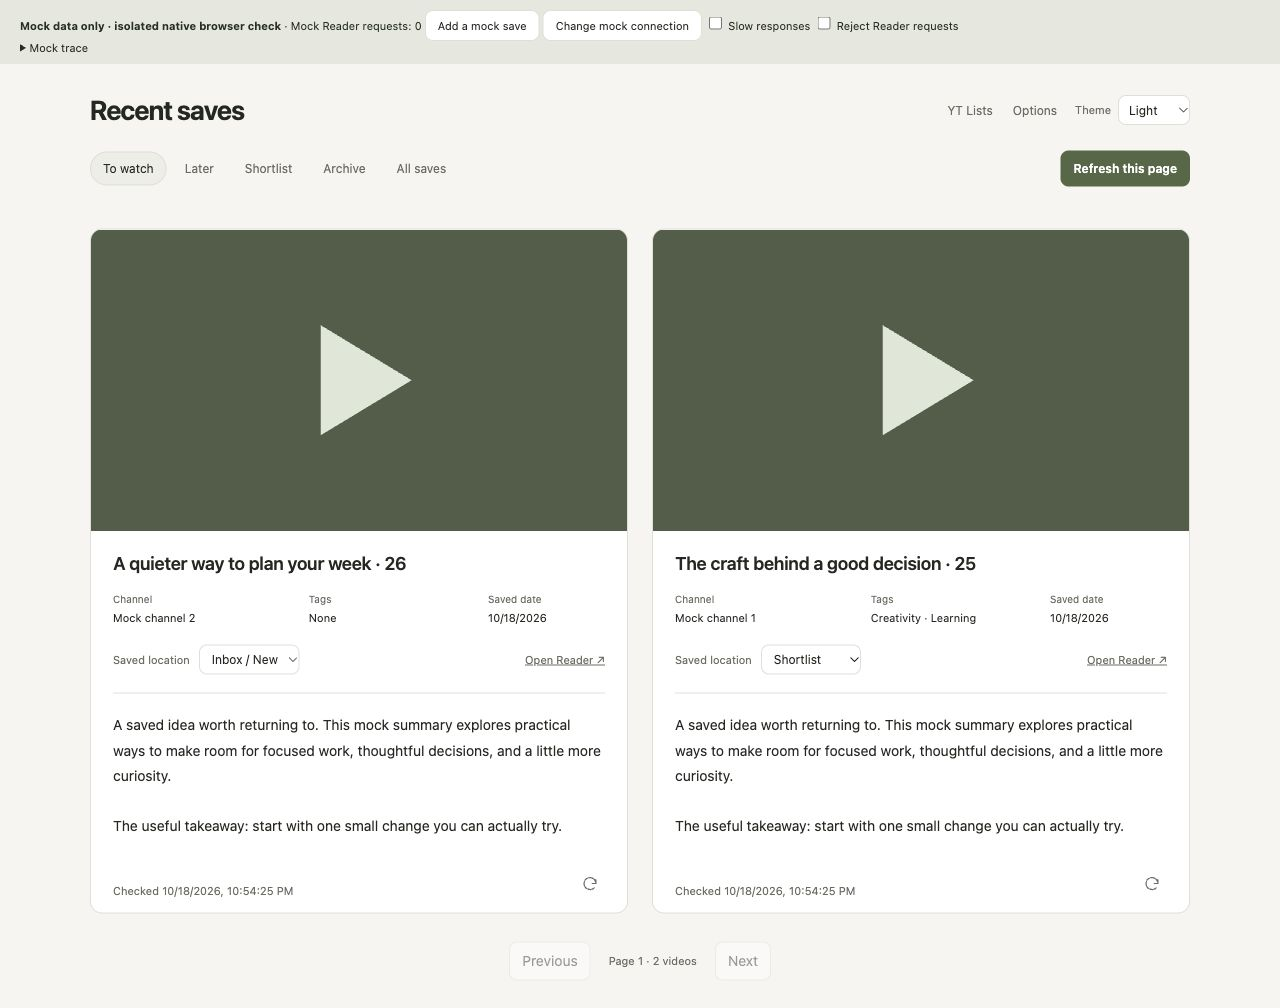
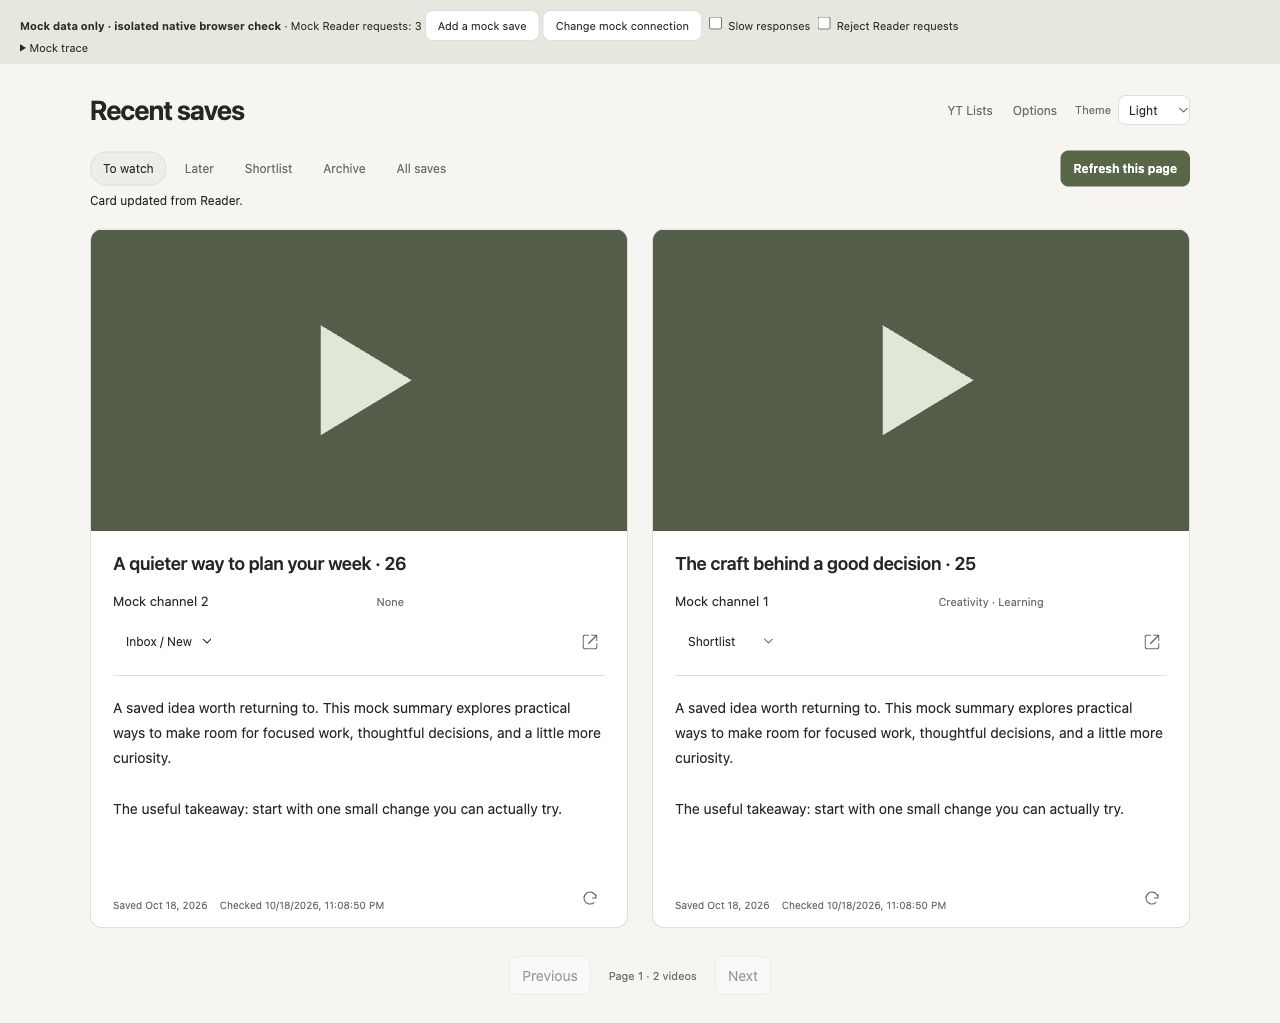
Polish Recent saves metadata, controls and footer

diff --git a/watch.js b/watch.js
@@ -37,6 +37,10 @@
   })[result.code] || (result.code === 'rate_limited' ? `Reader rate limit reached. Try after ${new Date(result.retryAt || Date.now() + 60000).toLocaleTimeString()}.` : 'Reader could not complete this request. Try Refresh.');
   const announce = (text, error = false) => { status.textContent = text; status.dataset.error = String(error); };
   const node = (tag, text, parent, className) => { const n = document.createElement(tag); if (text) n.textContent = text; if (className) n.className = className; parent?.append(n); return n; };
+  const icon = (parent, commands) => {
+    const svg = document.createElementNS('http://www.w3.org/2000/svg', 'svg'); svg.setAttribute('viewBox', '0 0 24 24'); svg.setAttribute('aria-hidden', 'true');
+    const path = document.createElementNS('http://www.w3.org/2000/svg', 'path'); path.setAttribute('d', commands); svg.append(path); parent.append(svg);
+  };
   const controls = () => {
     $('refresh').disabled = refreshing || pending.size > 0 || Boolean(deletion);
     $('refresh').textContent = refreshing ? 'Refreshing…' : 'Refresh this page';
@@ -54,20 +58,23 @@
     const copy = node('div', '', card, 'video-copy'), heading = node('h2', '', copy), link = node('a', '', heading);
     link.href = item.videoUrl; link.target = '_blank'; link.rel = 'noopener noreferrer';
     const metadata = node('dl', '', copy, 'metadata');
-    const field = label => { const group = node('div', '', metadata); node('dt', label, group); return node('dd', '', group); };
-    const channel = field('Channel'), tags = field('Tags'), date = field('Saved date');
-    const locationRow = node('div', '', copy, 'location-row'), locationLabel = node('label', 'Saved location', locationRow);
+    const field = label => { const group = node('div', '', metadata); node('dt', label, group, 'sr-only'); return node('dd', '', group); };
+    const channel = field('Channel'), tags = field('Tags'); channel.className = 'channel-name';
+    const locationRow = node('div', '', copy, 'location-row'), locationLabel = node('label', '', locationRow);
+    node('span', 'Saved location', locationLabel, 'sr-only');
     const move = node('select', '', locationLabel);
     const placeholder = node('option', 'Not checked', move); placeholder.value = ''; placeholder.disabled = true;
     for (const [value, label] of Object.entries(C.locations)) { const option = node('option', label, move); option.value = value; }
     const removeGroup = node('optgroup', '', move); removeGroup.label = 'Remove document';
     const trash = node('option', 'Trash…', removeGroup, 'trash-option'); trash.value = 'trash';
-    const readerLink = node('a', 'Open Reader ↗', locationRow); readerLink.target = '_blank'; readerLink.rel = 'noopener noreferrer';
+    const readerLink = node('a', '', locationRow, 'reader-link'); readerLink.target = '_blank'; readerLink.rel = 'noopener noreferrer'; readerLink.title = 'Open in Reader';
+    icon(readerLink, 'M14 3h7v7M10 14 21 3M10 3H5a2 2 0 0 0-2 2v14a2 2 0 0 0 2 2h14a2 2 0 0 0 2-2v-5');
     const summary = node('p', '', copy, 'summary-text');
-    const footer = node('div', '', copy, 'card-footer'), note = node('p', '', footer, 'row-status'); note.setAttribute('role', 'status');
+    const footer = node('div', '', copy, 'card-footer'), footerDetails = node('div', '', footer, 'footer-details');
+    const note = node('p', '', footerDetails, 'row-status'); note.setAttribute('role', 'status');
+    const footerMeta = node('div', '', footerDetails, 'footer-meta'), date = node('time', '', footerMeta), checked = node('span', '', footerMeta);
     const refresh = node('button', '', footer, 'card-refresh'); refresh.type = 'button';
-    const svg = document.createElementNS('http://www.w3.org/2000/svg', 'svg'); svg.setAttribute('viewBox', '0 0 24 24'); svg.setAttribute('aria-hidden', 'true');
-    const path = document.createElementNS('http://www.w3.org/2000/svg', 'path'); path.setAttribute('d', 'M20 7v5h-5M20 12a8 8 0 1 0-2.3 5.7'); svg.append(path); refresh.append(svg);
+    icon(refresh, 'M20 7v5h-5M20 12a8 8 0 1 0-2.3 5.7');
     move.addEventListener('change', () => {
       const destination = move.value, current = items.find(row => row.videoUrl === item.videoUrl);
       move.value = current && Object.hasOwn(C.locations, current.location) ? current.location : '';
@@ -75,7 +82,7 @@
       else if (destination) void mutate(item.videoUrl, destination);
     });
     refresh.addEventListener('click', () => void refreshCard(item.videoUrl));
-    return { card, link, channel, tags, date, placeholder, summary, move, readerLink, refresh, note };
+    return { card, link, channel, tags, date, checked, placeholder, summary, move, readerLink, refresh, note };
   };
   const render = () => {
     const order = items.map(item => item.videoUrl);
@@ -88,7 +95,10 @@
       const tags = Array.isArray(item.tags) ? W.tags(item.tags) : null;
       row.tags.textContent = tags ? tags.length ? tags.slice(0, 3).join(' · ') + (tags.length > 3 ? ` +${tags.length - 3}` : '') : 'None' : 'Not fetched';
       row.tags.title = tags?.join(' · ') || '';
-      row.date.textContent = new Date(item.savedAt).toLocaleDateString();
+      const savedDate = new Date(item.savedAt), hasSavedDate = Number.isFinite(savedDate.getTime());
+      row.date.textContent = hasSavedDate ? `Saved ${savedDate.toLocaleDateString(undefined, { month: 'short', day: 'numeric', year: 'numeric' })}` : 'Saved date unavailable';
+      row.date.dateTime = hasSavedDate ? savedDate.toISOString() : ''; row.date.setAttribute('aria-label', hasSavedDate ? `Saved date: ${savedDate.toLocaleString()}` : 'Saved date unavailable');
+      row.checked.textContent = item.checkedAt ? `Checked ${new Date(item.checkedAt).toLocaleString()}` : 'Not checked';
       row.placeholder.textContent = item.status === 'missing' ? 'Not found in Reader' : item.checkedAt ? C.locationLabel(item.location) : 'Not checked';
       row.placeholder.hidden = Object.hasOwn(C.locations, item.location) && item.status === 'saved';
       row.move.value = Object.hasOwn(C.locations, item.location) && item.status === 'saved' ? item.location : '';
@@ -101,7 +111,8 @@
       row.refresh.setAttribute('aria-label', `Refresh ${item.title || 'video'} from Reader`); row.refresh.title = 'Refresh this card from Reader';
       row.card.setAttribute('aria-busy', String(pending.has(item.videoUrl) || refreshing));
       row.readerLink.hidden = !item.readerId; if (item.readerId) row.readerLink.href = C.readerUrl(item.readerId);
-      row.note.textContent = pending.has(item.videoUrl) ? 'Working…' : errors.get(item.videoUrl) || (!item.readerId ? 'Reader ID not retained; open the video page to link it.' : item.checkedAt ? `Checked ${new Date(item.checkedAt).toLocaleString()}` : 'Saved locally · not yet checked with Reader');
+      row.readerLink.setAttribute('aria-label', `Open ${item.title || 'video'} in Reader`);
+      row.note.textContent = pending.has(item.videoUrl) ? 'Working…' : errors.get(item.videoUrl) || (!item.readerId ? 'Reader ID not retained; open the video page to link it.' : '');
       row.note.dataset.error = String(errors.has(item.videoUrl)); cards.push(row.card);
     }
     if (Array.from(grid.children).map(n => n.dataset.url).join('|') !== order.join('|')) grid.replaceChildren(...cards);

diff --git a/watch.css b/watch.css
@@ -2,6 +2,7 @@
 :root[data-theme=dark]{color-scheme:dark;--bg:#171916;--surface:#22251f;--text:#eeefe8;--muted:#adb2a3;--line:#41463b;--chip:#31362c;--accent:#bed5a6;--accent-text:#1b2913;--error:#ffb4ab;--focus:#e8bd67}
 *{box-sizing:border-box}
 [hidden]{display:none!important}
+.sr-only{position:absolute;width:1px;height:1px;padding:0;margin:-1px;overflow:hidden;clip:rect(0,0,0,0);white-space:nowrap;border:0}
 body{margin:0;background:var(--bg);color:var(--text);font:14px/1.5 -apple-system,BlinkMacSystemFont,"Segoe UI",sans-serif}
 button,a,select{font:inherit}
 button,select{color:var(--text);background:var(--surface);border:1px solid var(--line);border-radius:8px;padding:8px 12px}
@@ -33,22 +34,26 @@ h1{font-size:27px;letter-spacing:-.035em;line-height:1.2;margin:0;font-weight:65
 .video h2{font-size:18px;line-height:1.4;font-weight:600;letter-spacing:-.015em;margin:0 0 15px;overflow-wrap:anywhere}
 .video h2 a{text-decoration:none}
 .video h2 a:hover{text-decoration:underline}
-.metadata{display:grid;grid-template-columns:minmax(0,1.1fr) minmax(0,1fr) minmax(0,.7fr);gap:12px;font-size:11px;margin:0 0 18px;line-height:1.55}
+.metadata{display:grid;grid-template-columns:minmax(0,1.1fr) minmax(0,1fr);gap:12px;font-size:11px;margin:0 0 14px;line-height:1.55;color:var(--muted);align-items:baseline}
 .metadata div{min-width:0}
-.metadata dt{font-size:10px;color:var(--muted);margin-bottom:3px}
 .metadata dd{margin:0;overflow-wrap:anywhere}
+.metadata .channel-name{font-size:13px;color:var(--text)}
 .location-row{display:flex;align-items:center;justify-content:space-between;gap:12px;padding-bottom:18px;border-bottom:1px solid var(--line)}
 .location-row label{display:flex;gap:9px;align-items:center;font-size:11px;color:var(--muted);min-width:0}
-.location-row select{font-size:12px;padding:6px 8px;max-width:180px;min-width:100px}
+.location-row select{font-size:12px;padding:6px 8px;max-width:200px;min-width:100px;background:transparent;border-color:transparent}
+.location-row select:hover:not(:disabled){background:var(--chip);border-color:var(--line)}
+.location-row select:focus-visible{background:var(--chip)}
 .trash-option{color:var(--error)}
-.location-row a{font-size:11px;color:var(--muted);white-space:nowrap}
 .summary-text{font-size:14px;line-height:1.8;white-space:pre-wrap;overflow-wrap:anywhere;margin:19px 0 12px;min-height:76px}
 .summary-text[data-empty=true]{color:var(--muted);font-size:13px}
 .card-footer{display:flex;align-items:flex-end;justify-content:space-between;gap:12px;min-width:0}
+.footer-details{min-width:0;flex:1}
+.footer-meta{display:flex;flex-wrap:wrap;align-content:end;column-gap:12px;height:32px;overflow:auto;font-size:10px;line-height:16px;color:var(--muted)}
+.footer-meta>*{overflow-wrap:anywhere}
 .row-status{font-size:11px;line-height:16px;color:var(--muted);margin:0;height:48px;overflow:auto;min-width:0;align-content:end}
-.card-refresh{flex-shrink:0;display:grid;place-items:center;width:32px;height:32px;padding:7px;color:var(--muted);background:transparent;border-color:transparent}
-.card-refresh:hover:not(:disabled){background:var(--chip)}
-.card-refresh svg{display:block;width:18px;height:18px;fill:none;stroke:currentColor;stroke-width:1.6;stroke-linecap:round;stroke-linejoin:round}
+.card-refresh,.reader-link{flex-shrink:0;display:grid;place-items:center;width:32px;height:32px;padding:7px;color:var(--muted);background:transparent;border:1px solid transparent;border-radius:8px}
+.card-refresh:hover:not(:disabled),.reader-link:hover{background:var(--chip)}
+.card-refresh svg,.reader-link svg{display:block;width:18px;height:18px;fill:none;stroke:currentColor;stroke-width:1.6;stroke-linecap:round;stroke-linejoin:round}
 .pagination{display:flex;align-items:center;justify-content:center;gap:18px;margin-top:28px}
 .pagination span{font-size:11px;color:var(--muted)}
 .empty{min-height:260px;padding:56px 24px;text-align:center;border:1px dashed var(--line);border-radius:12px;color:var(--muted)}
@@ -71,4 +76,4 @@ dialog h2{font-size:20px;margin:0 0 16px}
  .toolbar{gap:10px}.filters{gap:1px}.filters button{padding:6px 9px}.notice-area{height:48px}
  .video-copy{padding:18px 18px 12px}.video h2{font-size:17px}.location-row{gap:8px}.location-row label{gap:7px}
 }
-@media(max-width:360px){.location-row{align-items:flex-start;flex-direction:column}.metadata{gap:8px}.header-actions{gap:12px}}
+@media(max-width:360px){.metadata{gap:8px}.header-actions{gap:12px}}

diff --git a/docs/watch-list-native-checks.md b/docs/watch-list-native-checks.md
@@ -2,13 +2,13 @@
 
 Checks ran on 18 October 2026 in Codex’s isolated in-app browser. The actual page, IndexedDB store, background routing and Reader transport ran against synthetic documents and a fake in-memory HTTP adapter. No extension was installed, real Reader credentials used, or real notes/library mutated. The fixture’s CSP blocks outbound connections and substitutes local thumbnail art.
 
-The refined page has a compact **Recent saves** title, two substantial cards per desktop row, large 16:9 thumbnails, title and Channel/Tags/Saved date metadata, a current-location dropdown containing a separate **Trash…** action, full inline summaries, and a bottom-right per-card refresh icon. It has no intro, default “Newest saves…” copy, redundant Trash button, summary disclosure, text clamp, or internal summary scroll area.
+The refined page has a compact **Recent saves** title, two substantial cards per desktop row, large 16:9 thumbnails, title, channel name and tags with visually hidden accessible field labels, a flat current-location dropdown containing a separate **Trash…** action, full inline summaries, and a bottom-right per-card refresh icon. Open in Reader is icon-only with a tooltip; Saved date and Checked share the bottom-left footer. It has no intro, default “Newest saves…” copy, redundant Trash button, summary disclosure, text clamp, or internal summary scroll area.
 
 | Check | Observed result |
 | --- | --- |
 | Initial view and Next/Previous | At most 12 cards per page; zero Reader requests for cached browsing |
 | Per-card Refresh | Exactly one `list/?id=mock-25` request supplied summary, tags and location; other cards were not fetched |
-| Pending refresh and mock 401 | Actual first card height stayed **685.21875px** before, during loading and after the error; error remained visible in the reserved feedback area |
+| Pending refresh and mock 401 | Actual first card height stayed **699.8203125px** before, during loading and after the error; error remained visible in the reserved feedback area |
 | Dropdown move Later → Shortlist | Exact-ID preflight, location-only PATCH and readback; dropdown showed verified Shortlist |
 | Dropdown Trash cancellation | Exact title/URL/ID confirmation, Cancel initially focused, no DELETE; dropdown retained the verified location |
 | Confirmed dropdown Trash | Exact-ID preflight, one mock DELETE with HTTP 204, absent-ID readback; card removed and success remained visible |
@@ -17,6 +17,9 @@ The refined page has a compact **Recent saves** title, two substantial cards per
 | Connection changed during slow card refresh | The late reply did not replace the connection-change message with success |
 | Connection changed during slow Trash preparation | Confirmation stayed closed after the late reply |
 | Theme and layout | Light/dark modes; desktop 1280px had two 538px columns and 16:9 image geometry; 390px and 280px had one column and no horizontal overflow |
+| Final labels and footer | Channel/Tags/location labels remained in the accessibility tree but were visually clipped; channel text measured 13px; Reader icon had no visible text and retained its exact target, accessible name and tooltip; Saved/Checked fit the reserved 32px footer at 390px and 280px |
+| Flat selector keyboard | Native menu opened with ArrowDown; Escape closed it and retained a solid visible focus outline. Resting background/border were transparent |
+| Final Trash check | Flat dropdown still opened the exact-document dialog with Cancel focused; cancellation sent no DELETE |
 | Full summary | No disclosure elements; computed maximum height `none` and overflow `visible` |
 
 The original pass additionally checked a bounded 12-ID page refresh, new-save notifications, cancellation of the remaining slow refresh batch on page change, and empty/unlinked states. Current follow-up checks reconfirm these page controls and states. The full Node suite covers the unchanged history, paging, API budgets, quota, notes/playback and stale-target behavior.

diff --git a/README.md b/README.md
@@ -146,7 +146,7 @@ For Refresh, add `action=refresh`; `outcome=unauthorized` simulates a rejected r
 
 ## Recent saves
 
-Open **Recent saves** from the Reader panel’s More menu, the YT Lists sidebar, or Options. It collects videos saved through the extension, newest first, with **12 cards per page**, large 16:9 lazy thumbnails, full cached summaries expanded inline, and links to YouTube/Reader. Desktop uses two substantial cards side by side, with one column on narrow screens. Each card shows its title, compact Channel/Tags/Saved date metadata, and current Saved location. There are no summary disclosures, video embeds or autoplay. System/Light/Dark follows the existing Reader theme preference.
+Open **Recent saves** from the Reader panel’s More menu, the YT Lists sidebar, or Options. It collects videos saved through the extension, newest first, with **12 cards per page**, large 16:9 lazy thumbnails, full cached summaries expanded inline, and links to YouTube/Reader. Desktop uses two substantial cards side by side, with one column on narrow screens. Each card shows its title, a slightly larger channel name and compact tags without visible field labels. The flat native location selector keeps its arrow, hover/focus treatment and accessible name; Open in Reader is an icon with a tooltip. Saved date and Checked sit together at the bottom left, with refresh at the bottom right and reserved feedback space. There are no summary disclosures, video embeds or autoplay. System/Light/Dark follows the existing Reader theme preference.
 
 - **To watch** includes last-known Inbox/New, Later, Shortlist, and unknown locations. Verified Archive, Feed, missing and deleted documents are excluded. **Later**, **Shortlist**, **Archive**, and **All saves** offer separate views. All saves includes missing matches with an explicit label, but excludes confirmed deletions. “Library” is a Reader grouping, not a location value.
 - This is extension-owned save history, **not an import of Reader history**. One-time migration preserves only retained local YouTube save flags and their known IDs. Merely opening an externally saved document does not add it. Existing flags have an older 2,000-entry cap, so already-discarded saves cannot be reconstructed. Older entries may lack titles or Reader IDs; the UI says so. Link those on the video page using the existing manual Reader lookup. Recent saves itself never scans the Reader library, saves on opening, or fetches YouTube metadata while browsing.
@@ -160,3 +160,5 @@ Open **Recent saves** from the Reader panel’s More menu, the YT Lists sidebar,
 For an isolated browser check, run `node tests/watch-browser-fixture.cjs`, serve only `output/watch-browser` on loopback, and open `index.html`. This runs the actual page, background bridge, Reader service and native browser IndexedDB with synthetic data and no real credentials. The fixture blocks outbound connections/link navigation and substitutes local thumbnail artwork. Its controls simulate new saves, slow responses and rejected requests; `?mode=empty` and `?mode=unlinked` cover those states; `?mode=layout` supplies two verified cards for the layout previews. The fixture deletes only its own named synthetic database when loaded. [Recorded checks and limits](docs/watch-list-native-checks.md).
 
 ![Recent saves using isolated mock data](docs/recent-saves-desktop-mock.jpg)
+
+Click-to-load embeds were assessed but are not implemented. [Feasibility and tradeoffs](docs/recent-saves-embed-feasibility.md) cover the existing CSP, bounded player loading, YouTube client identification and fallback needs.

diff --git a/docs/recent-saves-embed-feasibility.md b/docs/recent-saves-embed-feasibility.md
@@ -1,0 +1,11 @@
+# Click-to-load YouTube embeds: feasibility
+
+**Conditionally viable; not implemented in PR #12.** Keep the current thumbnail until an explicit “Load player” action, create only one iframe, and remove it on replacement/page/filter changes. This preserves zero player startup work while browsing. A loaded player still costs network/memory. With `autoplay=0`, loading and pressing Play are separate user actions. [YouTube supports a plain iframe and this parameter](https://developers.google.com/youtube/player_parameters).
+
+The current manifest has no custom CSP, frame-src restriction, or embed-related permission change. A basic cross-origin YouTube iframe appears compatible with the [default extension CSP](https://developer.chrome.com/docs/extensions/reference/manifest/content-security-policy); this is an architectural inference, not an installed-extension playback test. Keep all parent-page code packaged locally rather than loading the remote IFrame API script into the extension page. Reader credentials and messages must stay outside the player. No CSP, security setting, permission or header-rewriting changes are proposed.
+
+The main unresolved constraint is client identification. [YouTube requires a Referer or supported equivalent](https://developers.google.com/youtube/terms/required-minimum-functionality#api-client-identity-and-credentials), and [error 153 indicates missing identification](https://developers.google.com/youtube/iframe_api_reference#onError). An extension-origin page must be tested in a separate extension profile: a successful localhost embed would not prove this works. If the installed extension cannot identify itself under existing permissions, retain Open on YouTube rather than adding header permissions, relaxing CSP, or inventing a referrer.
+
+Some owners disallow embedding; unavailable/private videos need the same fallback. YouTube requires at least a 200×200 player and recommends 480×270 for 16:9: very narrow cards need a fallback or taller player. These [size requirements](https://developers.google.com/youtube/player_parameters#Overview) limit an unchanged 16:9 thumbnail replacement at small widths.
+
+Recommendation: keep thumbnails in this draft, then validate the one-player, no-autoplay approach in an isolated extension profile before deciding on a separate embed change. No embed or live-player test was added here.
